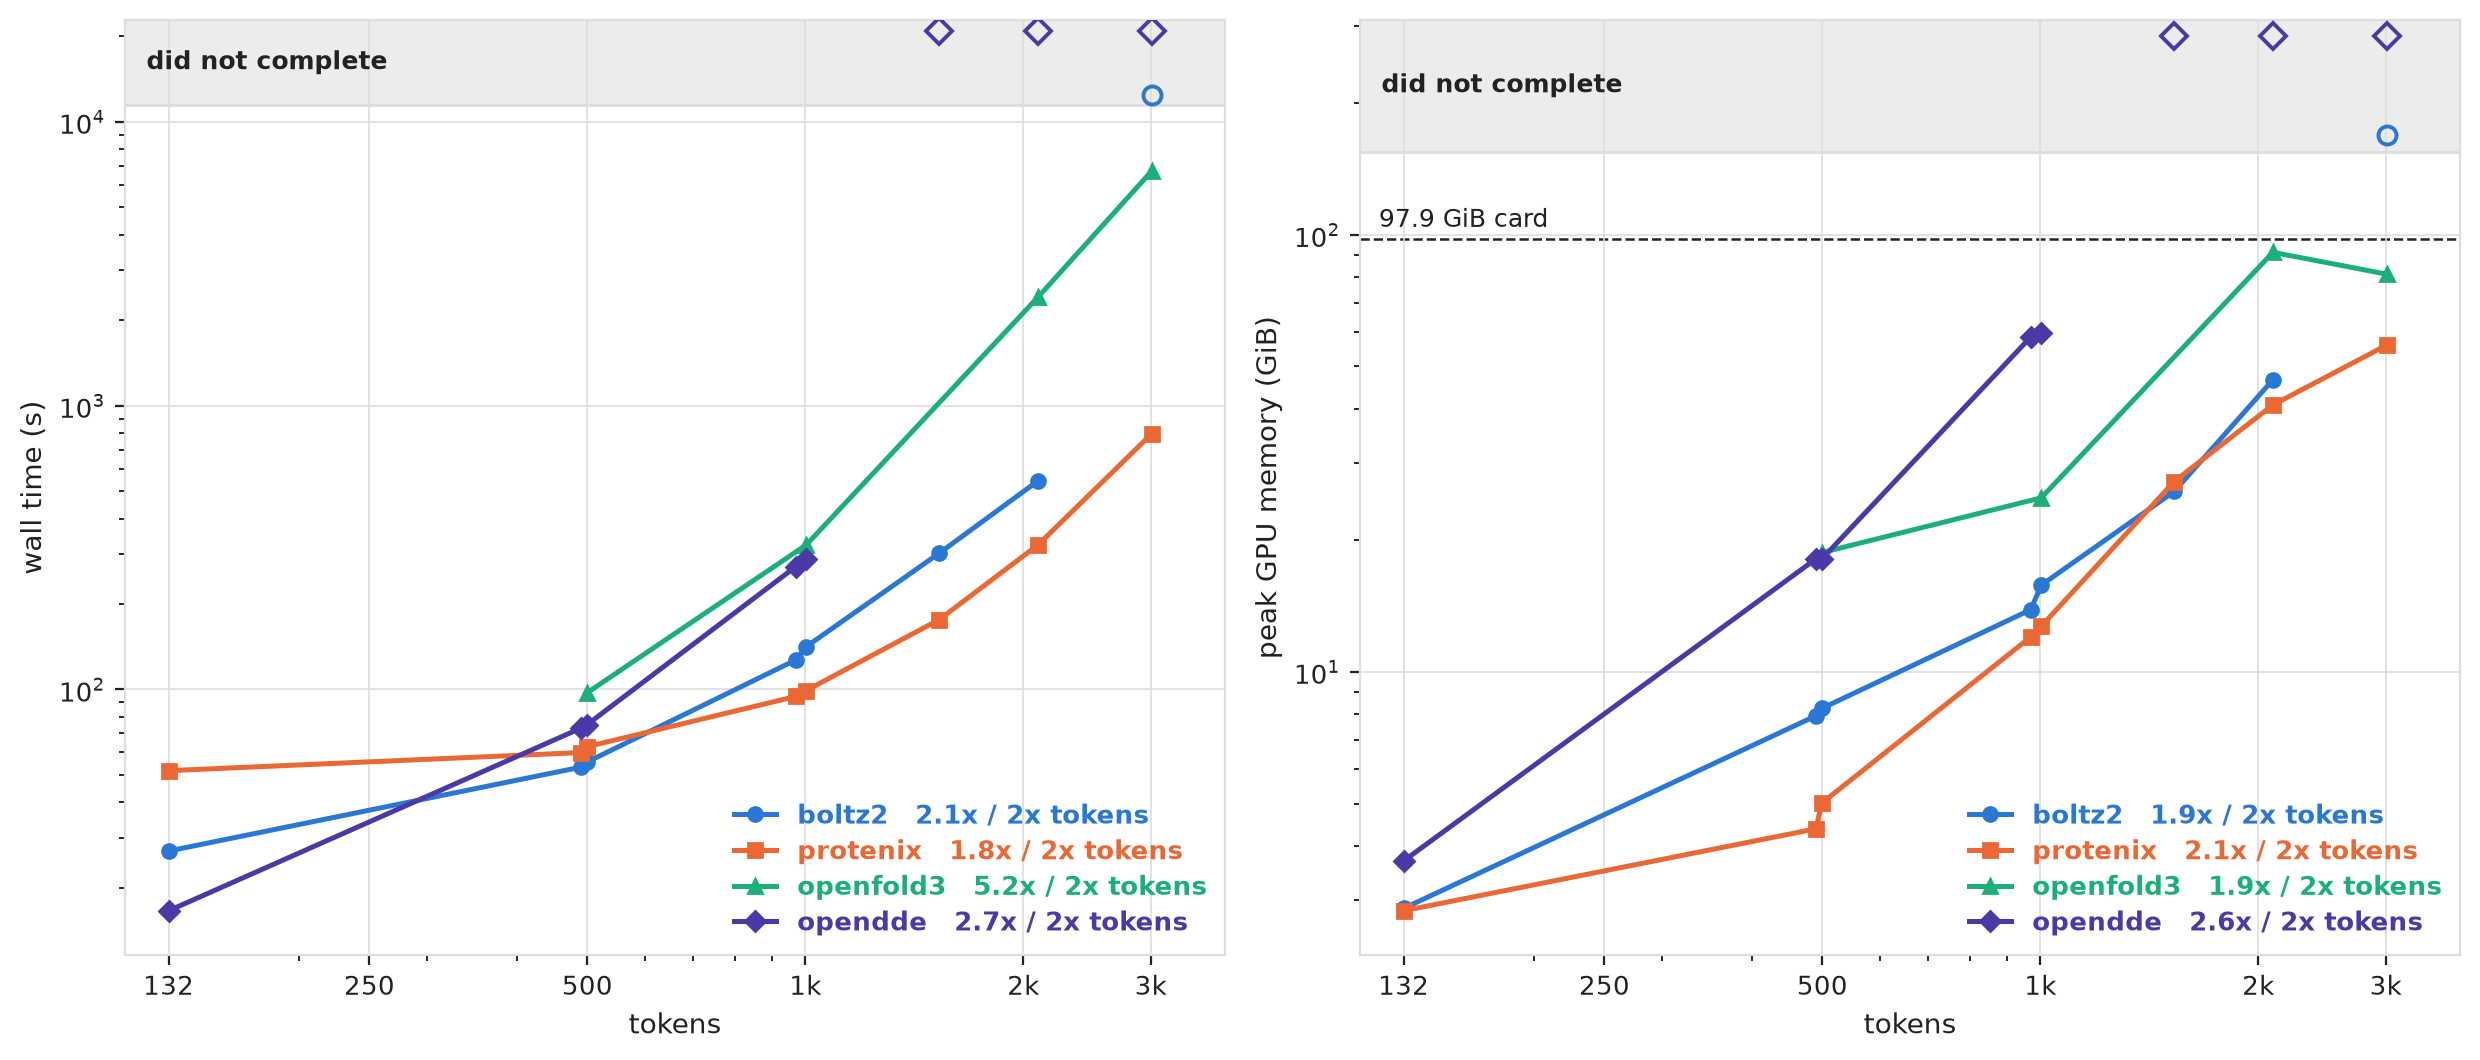
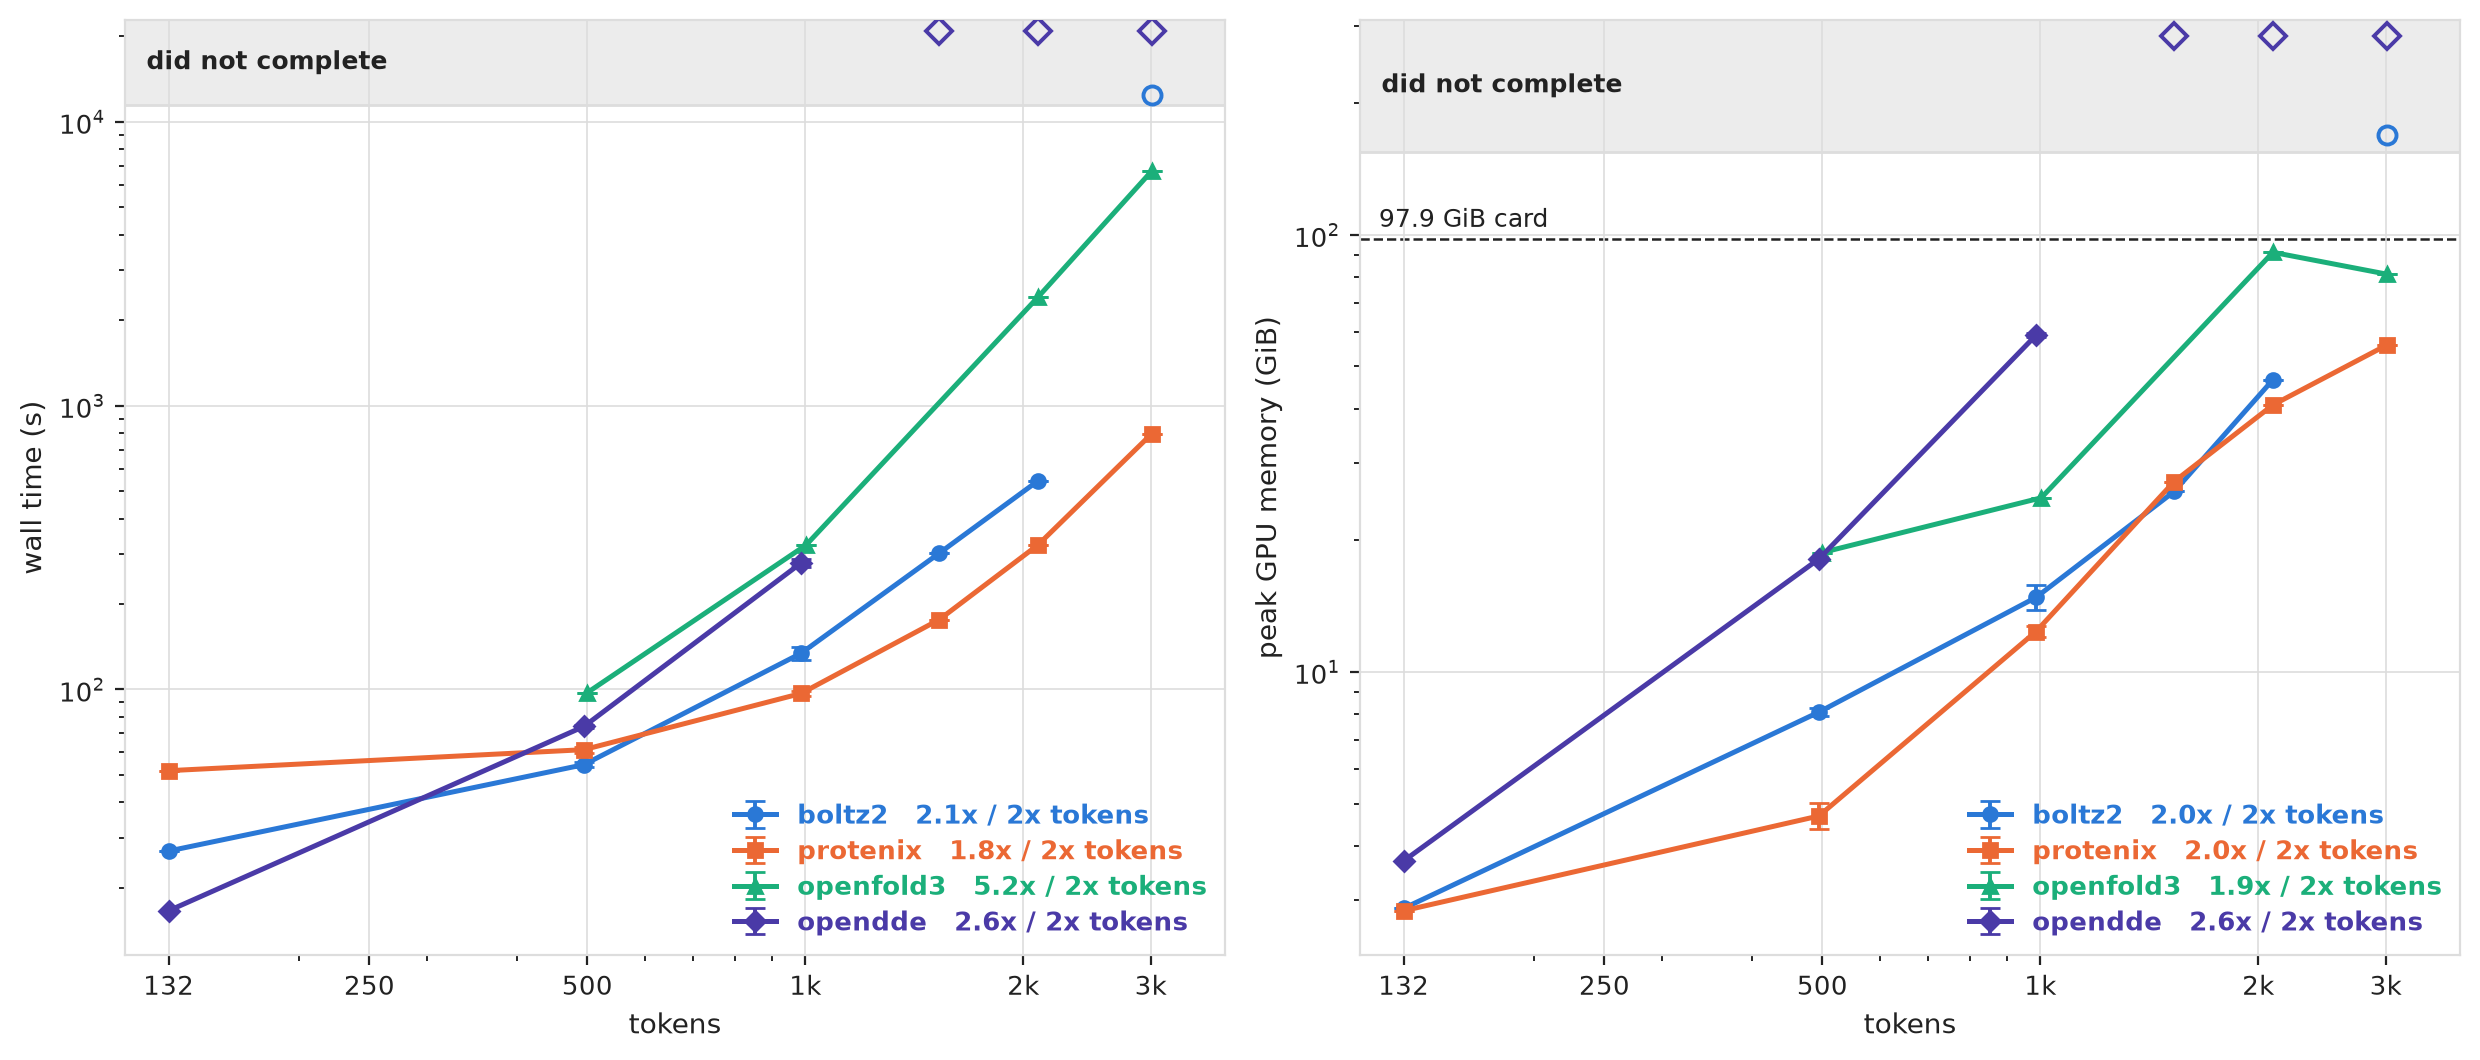
fix(docs): one point per length, with the between-sequence spread as a bar
The pooled figure drew doubled, smeared markers around 500 and 1,000 tokens.
The cause was in the data, not the renderer: the two sweeps measured different
proteins at nearly the same length -- 490 against 499 (1.8% apart) and 970
against 1,003 (3.4%). On a log axis that is a couple of pixels, so each pair
drew two markers on top of each other and the segment joining them became a
near-vertical kink. Protenix moves 14% in memory across a 1.8% change in size,
which is what made the kink big enough to look like a bug.

They are replicates of a length, so they are now drawn as one: geometric mean,
with the two measurements as an error bar. The fit uses the binned centres too,
which stops 500 and 1,000 tokens from counting twice -- boltz2's memory growth
goes 1.9x to 2.0x per doubling, protenix's 2.1x to 2.0x, OpenDDE's time 2.7x to
2.6x.

Keeping the bar rather than averaging it away: two proteins of one length
differ by up to 14% here, and that is the floor on how precisely any single
point in this figure can be read.

diff --git a/docs/make_scaling_figure.py b/docs/make_scaling_figure.py
@@ -38,6 +38,7 @@ from __future__ import annotations
 
 import argparse
 import json
+import math
 from pathlib import Path
 
 #: Cheapest first, matching the benchmark figure's row order.
@@ -113,6 +114,34 @@ def load(results: list[Path]) -> dict:
     return grouped
 
 
+def replicates(points: list[tuple], tolerance: float = 0.06) -> list[list[tuple]]:
+    """Measurements at effectively the same length, grouped together.
+
+    The two sweeps used different sequences, and two of their sizes land within
+    a few percent of each other: 490 against 499, and 970 against 1,003. On a
+    log axis that is a couple of pixels, so drawn separately they smear into
+    one fat marker and the segment joining them becomes a near-vertical kink
+    that reads as a rendering glitch -- when what it actually shows is two
+    different proteins of the same length disagreeing by up to 14%.
+
+    Grouping them says that instead: one point per length, with the spread
+    drawn as a bar. That spread is worth keeping visible, because it is the
+    floor on how precisely any single point can be read.
+    """
+    groups: list[list[tuple]] = []
+    for point in sorted(points):
+        if groups and point[0] <= groups[-1][0][0] * (1 + tolerance):
+            groups[-1].append(point)
+        else:
+            groups.append([point])
+    return groups
+
+
+def _geometric_mean(values) -> float:
+    values = list(values)
+    return math.exp(sum(math.log(value) for value in values) / len(values))
+
+
 def growth(fitted: float) -> str:
     """The exponent as what it costs to double the input.
 
@@ -126,8 +155,6 @@ def exponent(points: list[tuple[float, float]]) -> float | None:
     """The least-squares slope of log(y) against log(x): the scaling exponent."""
     if len(points) < 2:
         return None
-    import math
-
     xs = [math.log(x) for x, _ in points]
     ys = [math.log(y) for _, y in points]
     n = len(xs)
@@ -323,6 +350,7 @@ def render_upstream(grouped: dict, out: Path, *, theme: str) -> Path:
              for value in grouped[model].get("upstream", {}).get("ok", [])),
             default=1.0,
         )
+        del column
         # The failures live in a band of their own above the data, so a reader
         # never has to decide whether a marker up there is a measurement.
         floor, ceiling = top * 1.7, top * 3.4
@@ -339,15 +367,35 @@ def render_upstream(grouped: dict, out: Path, *, theme: str) -> Path:
             if side is None:
                 continue
             color = palette[model]
-            points = [(value[0], value[index] * scale) for value in side["ok"]]
-            if points:
-                line, = axis.plot(
-                    [x for x, _ in points], [y for _, y in points], color=color,
-                    linewidth=1.8, marker=MARKERS[model], markersize=5, zorder=3,
+            # One point per length, not per run: two sequences of the same
+            # length are replicates of it, and drawing them as separate points
+            # a couple of pixels apart made the curve look broken.
+            binned = [
+                (
+                    _geometric_mean(value[0] for value in group),
+                    _geometric_mean(value[index] for value in group),
+                    min(value[index] for value in group),
+                    max(value[index] for value in group),
                 )
-                fitted = exponent(
-                    [(value[0], value[index]) for value in side["ok"]]
+                for group in replicates(side["ok"])
+            ]
+            if binned:
+                line = axis.errorbar(
+                    [size for size, *_ in binned],
+                    [centre * scale for _, centre, *_ in binned],
+                    # Clamped: a group of one has centre == low == high, and
+                    # exp(log(x)) can land a float below x, which matplotlib
+                    # rejects as a negative error bar.
+                    yerr=[
+                        [max(0.0, centre - low) * scale
+                         for _, centre, low, _ in binned],
+                        [max(0.0, high - centre) * scale
+                         for _, centre, _, high in binned],
+                    ],
+                    color=color, linewidth=1.8, marker=MARKERS[model],
+                    markersize=5, zorder=3, elinewidth=1.4, capsize=3.5,
                 )
+                fitted = exponent([(size, centre) for size, centre, *_ in binned])
                 handles.append(line)
                 labels.append(
                     f"{model}" + (f"   {growth(fitted)} / 2x tokens" if fitted else "")

diff --git a/docs/benchmark.md b/docs/benchmark.md
@@ -106,9 +106,14 @@ faceted one does not: those runs measured the *same unmodified upstream
 repositories*, so their points belong on the same curve, while FoldJAX's own
 code changed between the two sweeps and its points would not.
 
-Each point is a different sequence, so the near-equal pairs (490/499,
-970/1,003) are not repeats -- they show how much two sequences of one length
-can differ, which is the noise floor for reading any single point.
+Every point is a different sequence. Two lengths were measured twice, by the
+two sweeps, on different proteins a few percent apart in size -- 490 against
+499, and 970 against 1,003. Those are drawn as one point per length with the
+two measurements as a bar, because a couple of pixels apart they smeared into a
+single fat marker and the segment joining them read as a broken curve. The bar
+is worth keeping: two proteins of the same length differ by up to 14% here
+(Protenix, 4.4 against 5.0 GiB), which is the floor on how precisely any single
+point can be read.
 
 - **OpenFold3's upstream is the steepest thing here, 5.2x per doubling**, and
   part of that steepness is why its memory curve bends down. Upstream tunes its
